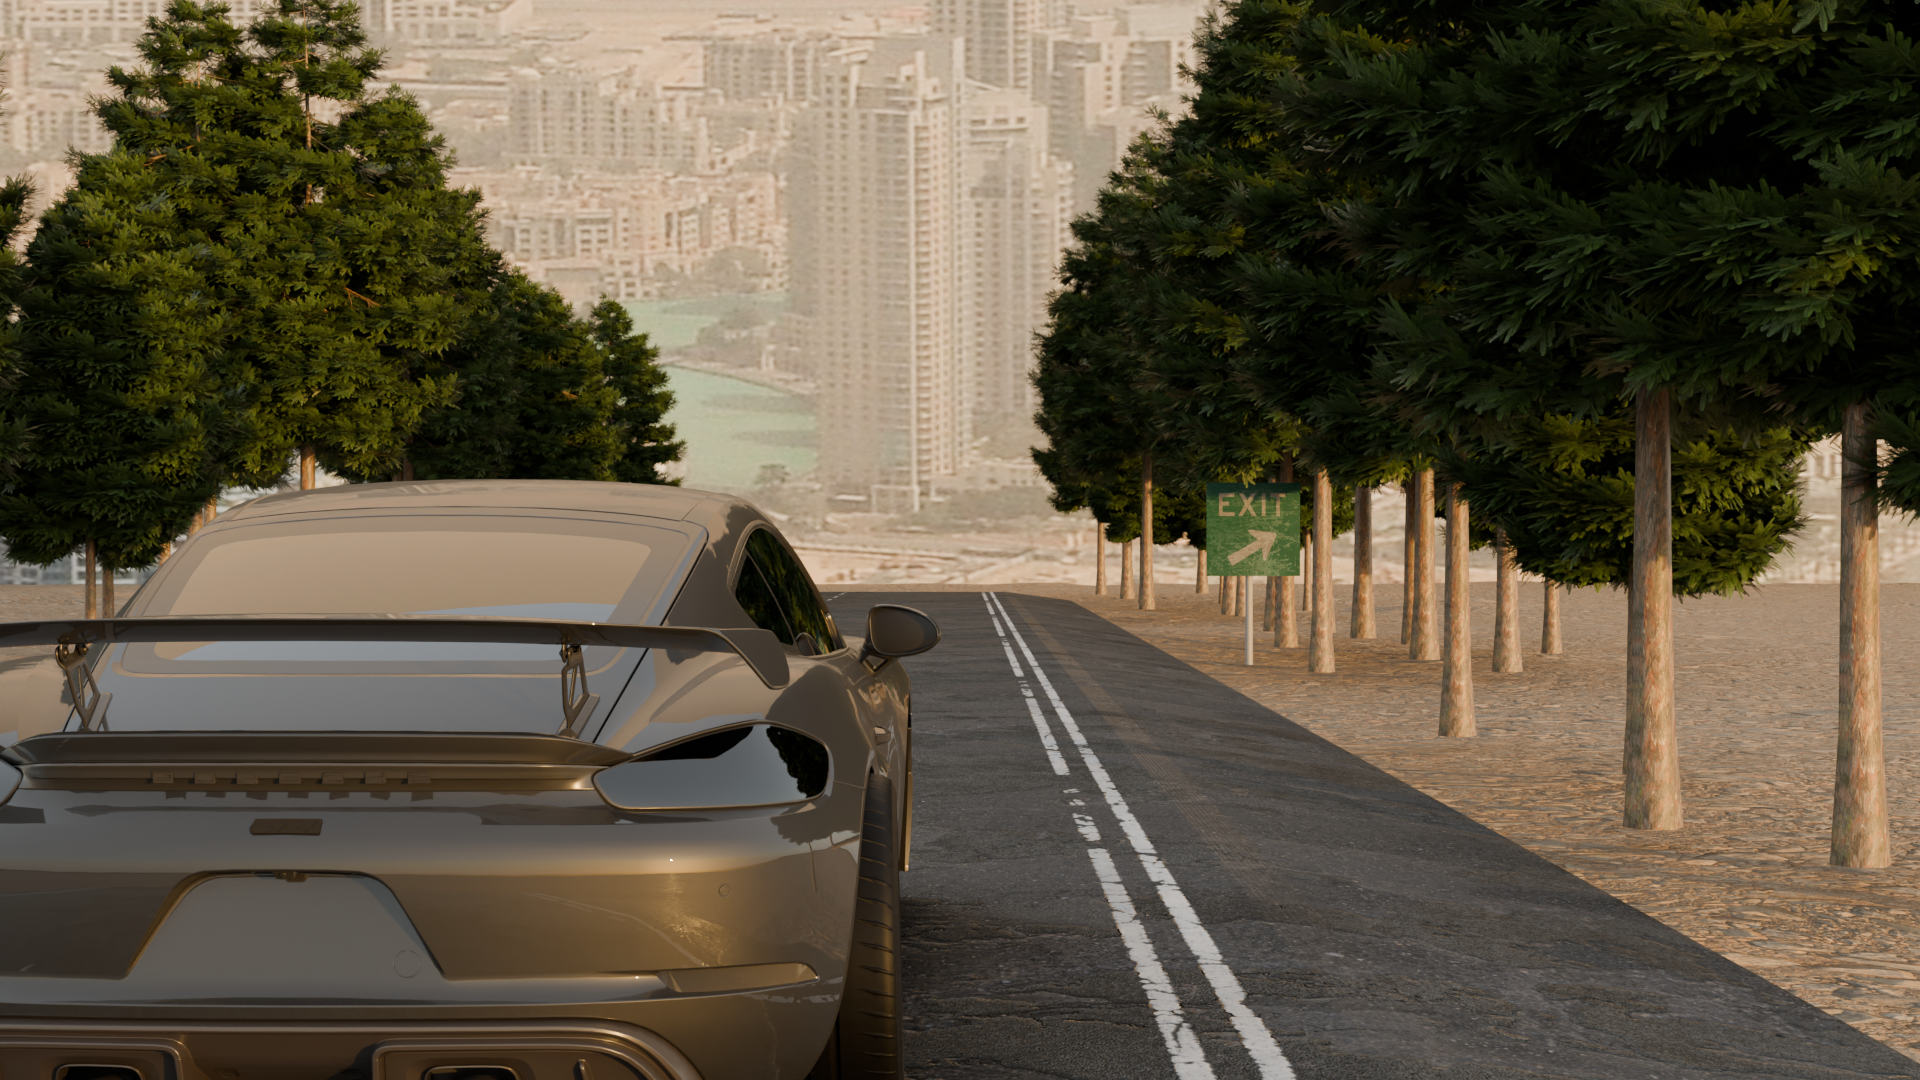
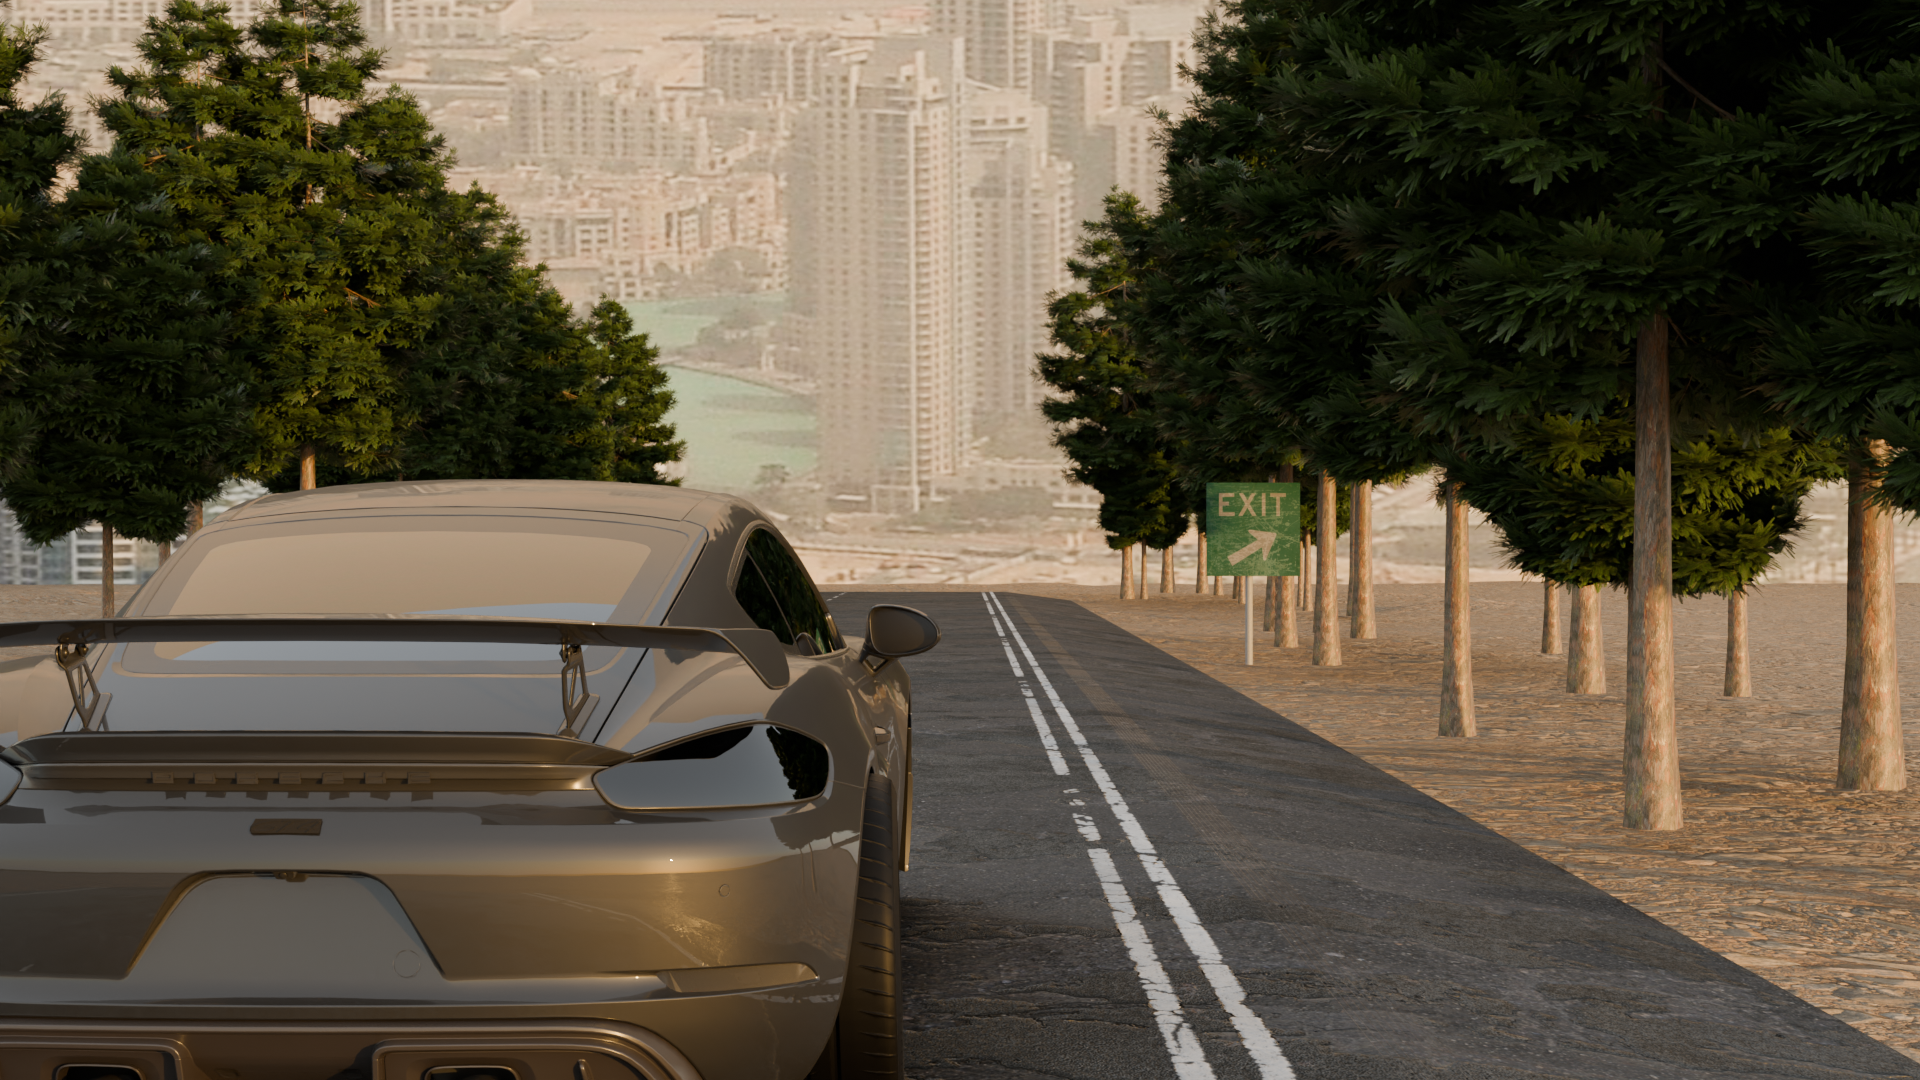
added time of day in sky_texture

diff --git a/blender_sky_texture.py b/blender_sky_texture.py
@@ -1,7 +1,29 @@
 import bpy
 
 
-def create_sky_texture():
+def create_sky_texture(time_of_day="dawn"):
+    # time_of_day = dawn | midday | dusk | night
+    if time_of_day == "dawn":
+        sun_elevation = 5
+        sun_intensity = 0.45
+        background_strength = 0.25
+    elif time_of_day == "midday":
+        sun_elevation = 60
+        sun_intensity = 0.6
+        background_strength = 0.4
+    elif time_of_day == "dusk":
+        sun_elevation = -5
+        sun_intensity = 0.4
+        background_strength = 0.2
+    elif time_of_day == "night":
+        sun_elevation = -45  # Lower elevation for night
+        sun_intensity = 0.01  # Much lower intensity
+        background_strength = 0.02  # Lower overall brightness
+    else:
+        # Default to dawn
+        sun_elevation = 5
+        sun_intensity = 0.45
+        background_strength = 0.25
     world = bpy.context.scene.world
     world.use_nodes = True
     nodes = world.node_tree.nodes
@@ -10,13 +32,13 @@ def create_sky_texture():
 
     sky_texture_node = nodes.new(type='ShaderNodeTexSky')
     sky_texture_node.location = (0, 0)
-    sky_texture_node.sun_intensity = 0.45
-    sky_texture_node.sun_elevation = 5  * (3.14159 / 180)
+    sky_texture_node.sun_intensity = sun_intensity
+    sky_texture_node.sun_elevation = sun_elevation * (3.14159 / 180)
     sky_texture_node.sun_rotation = 135 * (3.14159 / 180)
     
     background_node = nodes.new(type='ShaderNodeBackground')
     background_node.location = (100, 0)
-    background_node.inputs['Strength'].default_value = 0.250
+    background_node.inputs['Strength'].default_value = background_strength
     links.new(sky_texture_node.outputs['Color'], background_node.inputs['Color'])
 
     output_node = nodes.new(type='ShaderNodeOutputWorld')

diff --git a/run.py b/run.py
@@ -121,7 +121,7 @@ def main(args):
     car.create_car(target_directory)
 
     # Add sky texture
-    sky_texture.create_sky_texture()
+    sky_texture.create_sky_texture(time_of_day=args.time_of_day)
     
     # Determine output directory
     base_output_dir = os.path.join(target_directory, "output")
@@ -176,6 +176,7 @@ if __name__ == '__main__':
     parser.add_argument('-light_location', type=str, default='-28.398,59.799,19.12')
     parser.add_argument('-light_power', type=float, default=3.0)
     parser.add_argument('-light_angle', type=int, default=180)
+    parser.add_argument('-time_of_day', type=str, default="midday")
     parser.add_argument('-ground_plane_size', type=int, default=1000)
     parser.add_argument('-plane', type=str, default="mud")
     parser.add_argument('-background', type=str, default="burj_khalifa")

diff --git a/app.py b/app.py
@@ -37,7 +37,7 @@ import blender_sky_texture as sky_texture
 import texture_utils as texutils
 
 import importlib
-importlib.reload(cam)
+importlib.reload(sky_texture)
 
 
 #Reset and Clear the Scene
@@ -126,7 +126,7 @@ plane.create_plane(size=ground_plane_size, target_directory=target_directory, ma
 car.create_car(target_directory)
 
 #adds sky texture
-sky_texture.create_sky_texture()
+sky_texture.create_sky_texture(time_of_day="dusk")
 
 # output_image = 'output/sign.png'
 # samples = 256
